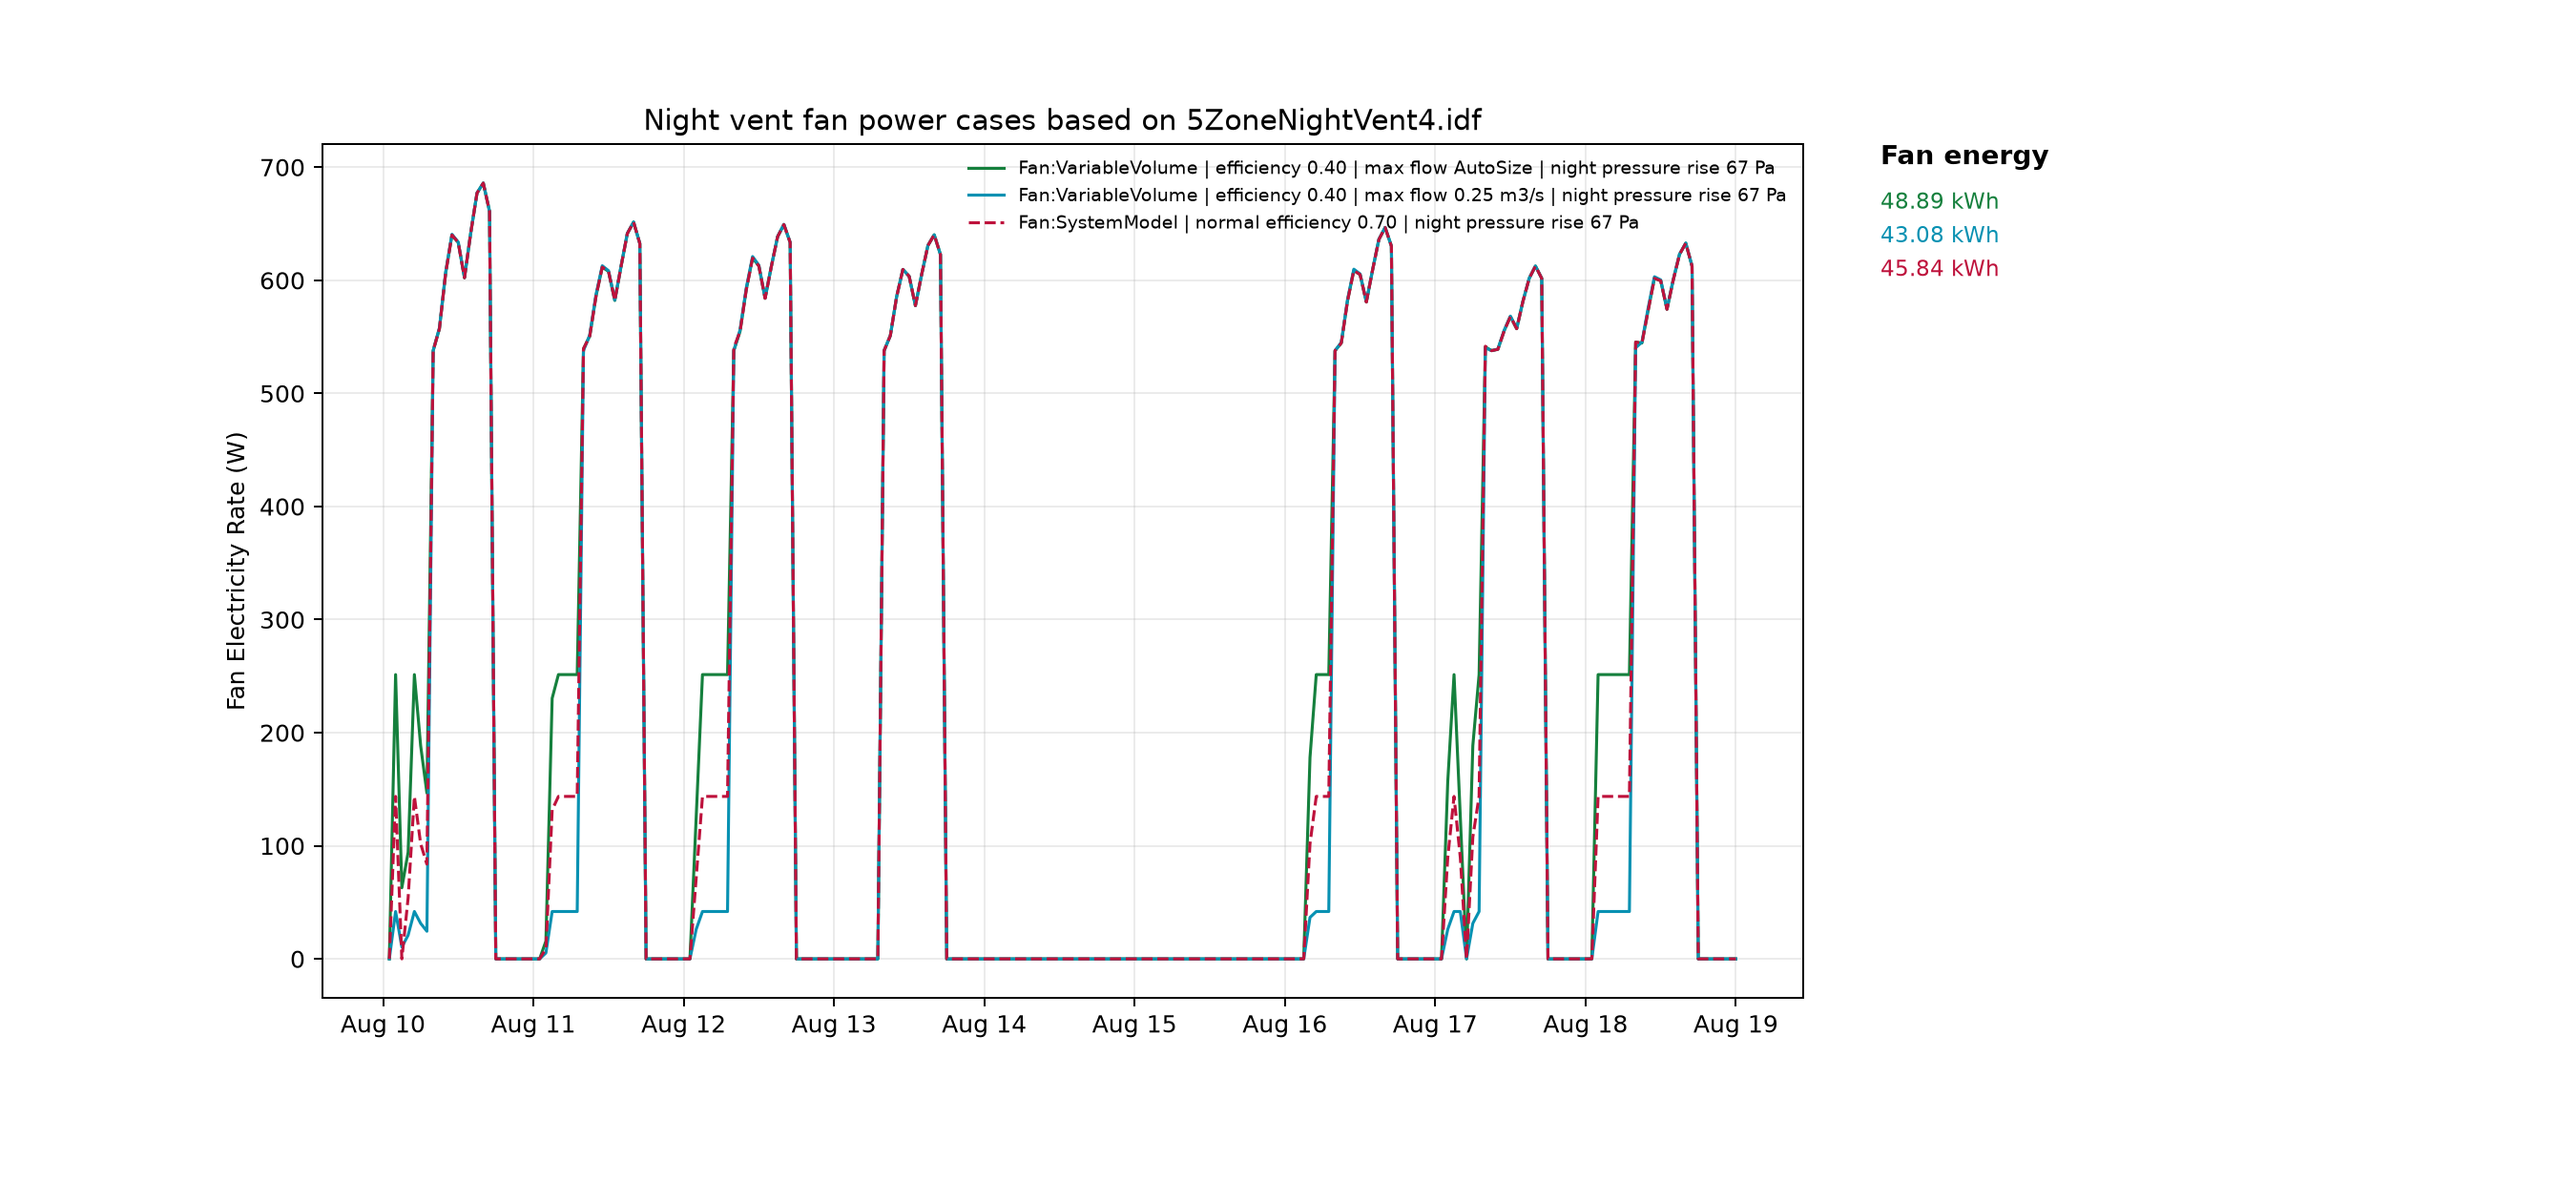
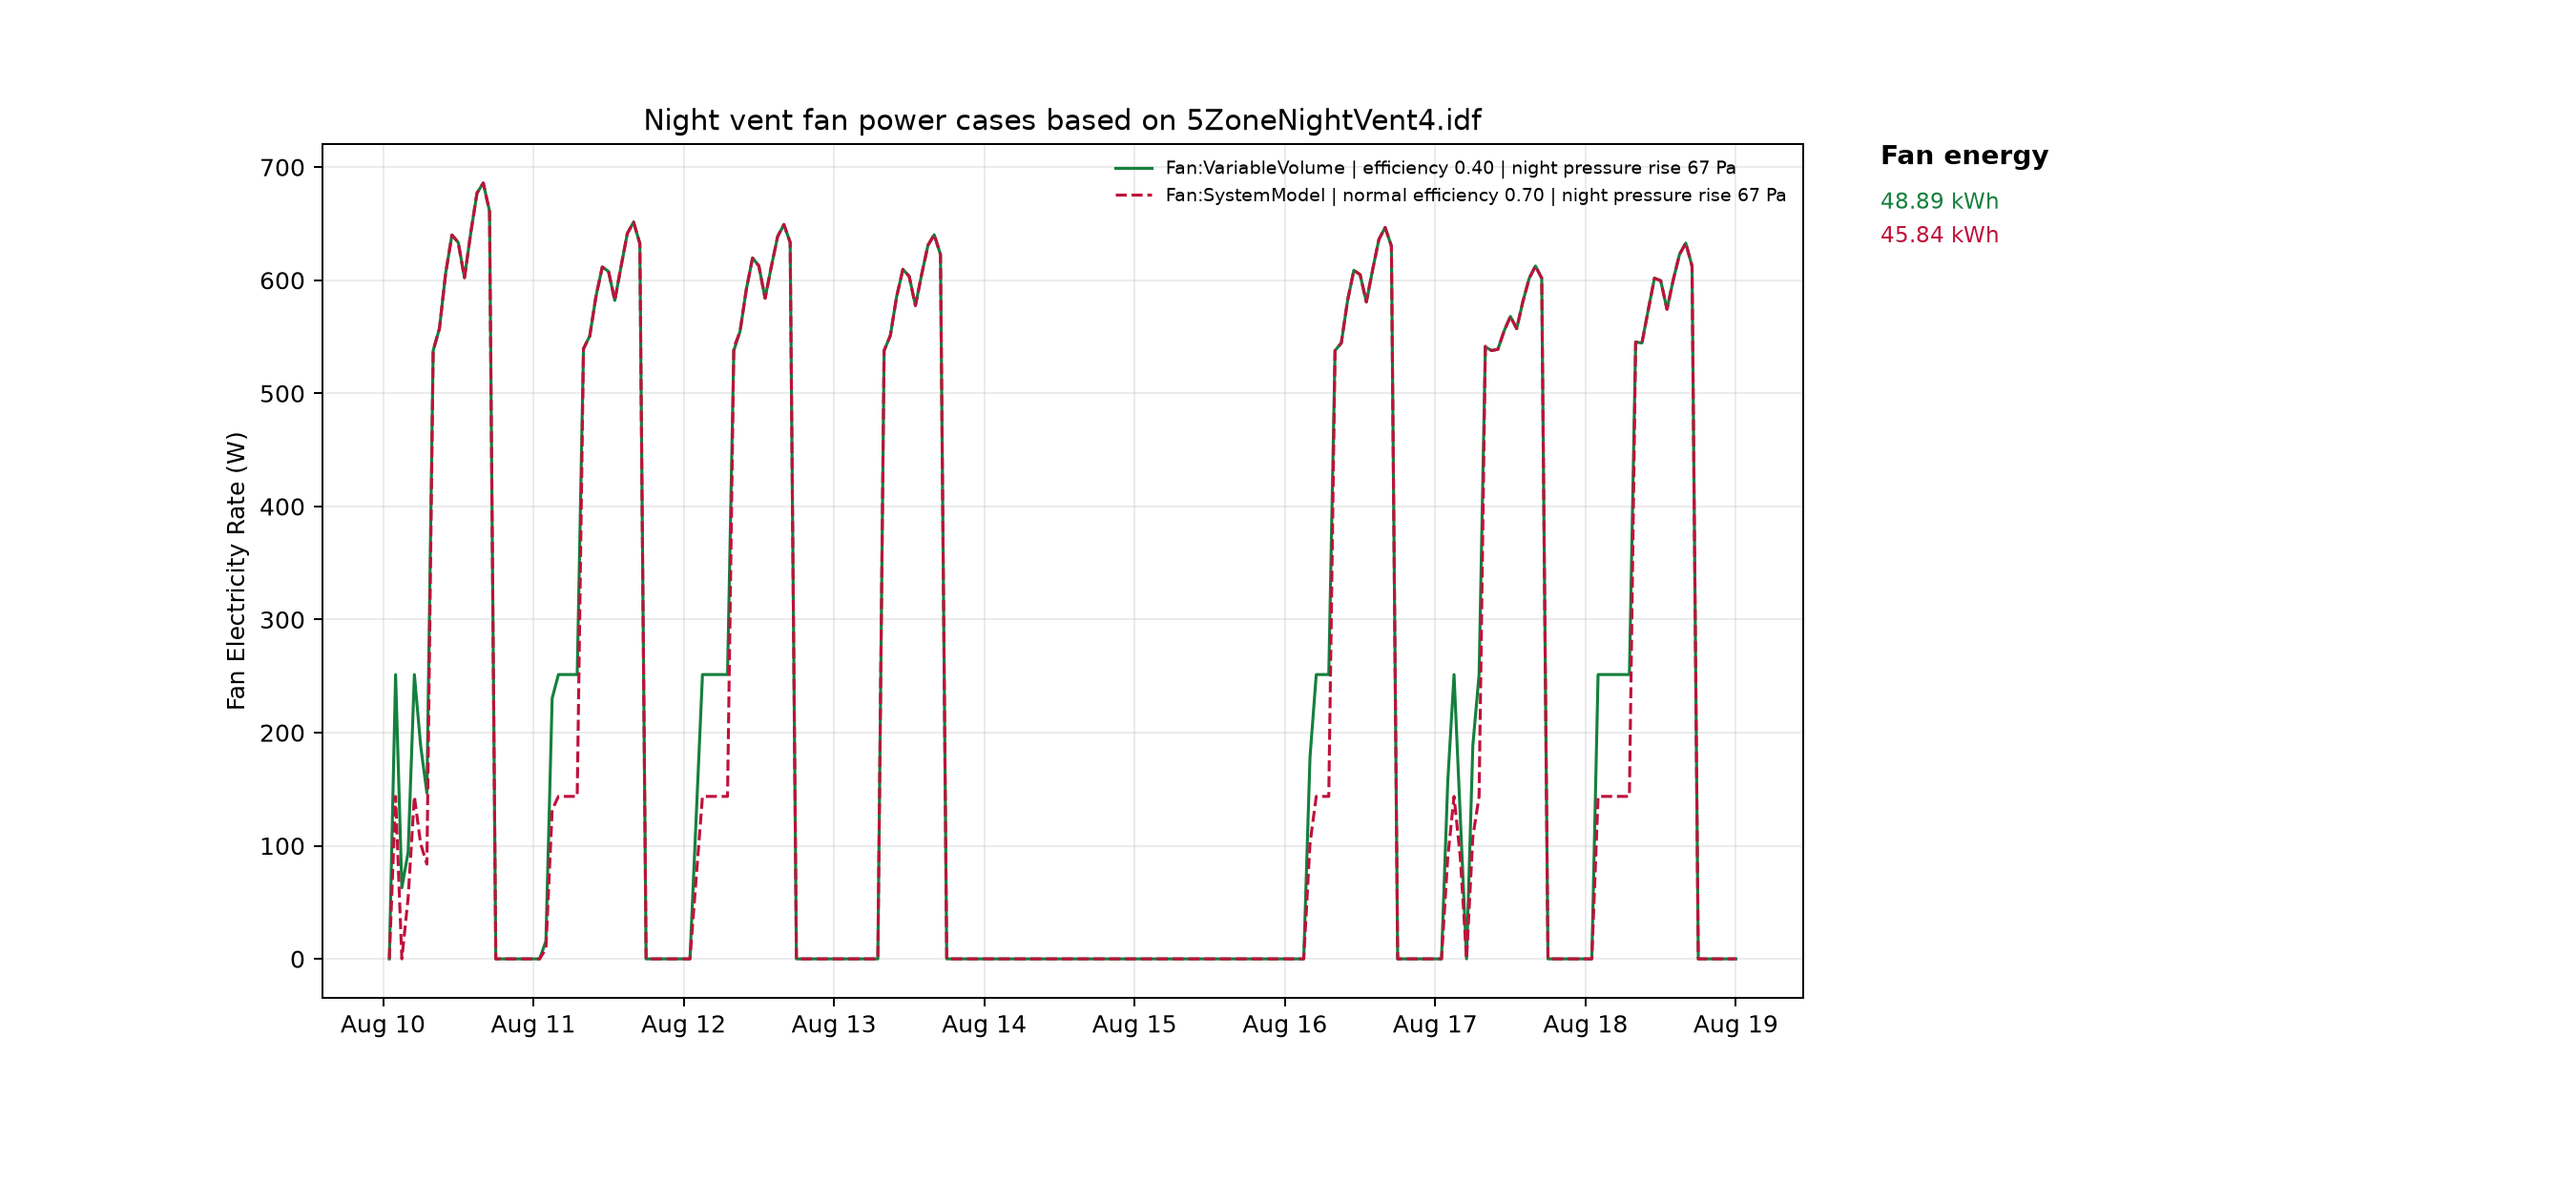
Remove night max-flow field from proposal
The legacy Maximum Flow Rate capped night flow only for Fan:VariableVolume, while other fan types ignored it. Reducing fan flow without a corresponding reduction in connected inlet flow could create a mass-flow mismatch. AvailabilityManager:NightVentilation remains responsible for the primary-loop flow request.

Changed region(s): [[0.3733, 0.1238, 0.6844, 0.2167], [0.7156, 0.1857, 0.7778, 0.2476], [0.56, 0.7429, 0.5911, 0.7738]]

diff --git a/design/FY2026/NFP-FanSystemModel_NightVentilation.md b/design/FY2026/NFP-FanSystemModel_NightVentilation.md
@@ -7,22 +7,21 @@ Fan:SystemModel Night Ventilation Mode Fields
 
 ## Justification for New Feature ##
 
-`FanPerformance:NightVentilation` lets a modeler specify an alternate fan efficiency, pressure rise, motor efficiency, motor-in-airstream fraction, and maximum flow rate that apply only while `AvailabilityManager:NightVentilation` has forced the fan into night ventilation mode.
+`FanPerformance:NightVentilation` lets a modeler specify alternate fan efficiency, pressure rise, motor efficiency, and motor-in-airstream fraction that apply only while `AvailabilityManager:NightVentilation` has forced the fan into night ventilation mode.
 It is documented as applying to `Fan:ConstantVolume`, `Fan:VariableVolume`, `Fan:ZoneExhaust`, and `Fan:OnOff`.
 
-`Fan:SystemModel` was intended to replace the legacy fan objects and their separate night-ventilation performance object. Today it supports a night pressure-rise override, but its `Night Ventilation Mode Flow Fraction` input is unused; requested flow is controlled by `AvailabilityManager:NightVentilation`. It cannot specify alternate night efficiency or motor performance, or independently cap night flow, so it is less capable in this mode than `Fan:VariableVolume` with `FanPerformance:NightVentilation`.
+`Fan:SystemModel` was intended to replace the legacy fan objects and their separate night-ventilation performance object. Today it supports a night pressure-rise override, but its `Night Ventilation Mode Flow Fraction` input is unused; requested flow is controlled by `AvailabilityManager:NightVentilation`. It cannot specify alternate night efficiency or motor performance, so it is less capable in this mode than `Fan:VariableVolume` with `FanPerformance:NightVentilation`.
 
 The FY2016 NFP, "A New Versatile Fan," explicitly says the new fan should make `FanPerformance:NightVentilation` unnecessary, but its proposed interface listed only pressure rise and flow fraction. This points to an incomplete replacement scope rather than an intentional change to night-ventilation behavior.
 
 The comparison below illustrates this capability gap.
 
-![Fan power comparison for Fan:VariableVolume with alternate night total efficiency and flow limits, versus Fan:SystemModel with a night pressure-rise override only.](NFP-FanSystemModel-NightVentilation-Comparisons.png)
+![Fan power comparison for Fan:VariableVolume with alternate night total efficiency, versus Fan:SystemModel with a night pressure-rise override only.](NFP-FanSystemModel-NightVentilation-Comparisons.png)
 
 This work (tracked under issue #11798, and related to the broader inconsistency reported in issue #11808 across fan types) reworks the `Fan:SystemModel` night ventilation inputs so that:
 
 1. The dead `Night Ventilation Mode Flow Fraction` field is removed.
 2. `Fan:SystemModel` gains the same alternate total efficiency, motor efficiency, and motor-in-airstream-fraction inputs that `FanPerformance:NightVentilation` already offers to the legacy fan types.
-3. `Fan:SystemModel` gains an optional, autosizable maximum air flow rate cap for night ventilation mode, mirroring `FanPerformance:NightVentilation`'s `Maximum Flow Rate` field, so that a fan's night-vent flow can be limited independently of (and in addition to) whatever flow fraction `AvailabilityManager:NightVentilation` requests.
 
 ## Overview ##
 
@@ -32,20 +31,18 @@ That pattern is extended to cover the remaining alternate-performance parameters
 - `Night Ventilation Mode Fan Total Efficiency` (optional; falls back to `Fan Total Efficiency` if blank)
 - `Night Ventilation Mode Motor Efficiency` (optional; falls back to `Motor Efficiency` if blank)
 - `Night Ventilation Mode Motor In Air Stream Fraction` (optional; falls back to `Motor In Air Stream Fraction` if blank)
-- `Night Ventilation Mode Maximum Air Flow Rate` (optional and autosizable; falls back to `Design Maximum Air Flow Rate` - i.e., no additional cap - if left blank or autosized)
 
-None of these fields affect the flow rate the fan is asked to move; that continues to be set entirely by `AvailabilityManager:NightVentilation`'s `Night Venting Flow Fraction`.
-The `Night Ventilation Mode Maximum Air Flow Rate` field only clips that requested flow to no more than the specified value, exactly as `FanPerformance:NightVentilation`'s `Maximum Flow Rate` field is documented to do for the legacy fan types.
+These alternate performance fields do not affect the flow rate the fan is asked to move; that continues to be set entirely by `AvailabilityManager:NightVentilation`'s `Night Venting Flow Fraction`.
 
 The previously unused `Night Ventilation Mode Flow Fraction` field is removed since it duplicated `AvailabilityManager:NightVentilation`'s own flow fraction field and was never consumed.
 
-![Legacy night-ventilation performance fields carried into Fan:SystemModel, with new fields highlighted and flow-request control retained by AvailabilityManager:NightVentilation.](NFP-FanSystemModel-NightVentilation-FieldChanges.png)
+![Night-ventilation efficiency and motor fields added to Fan:SystemModel, with flow-request control retained by AvailabilityManager:NightVentilation.](NFP-FanSystemModel-NightVentilation-FieldChanges.png)
 
 ## Approach ##
 
 ### IDD ###
 
-In `Fan:SystemModel`, `Night Ventilation Mode Flow Fraction` is removed and replaced with four fields: `Night Ventilation Mode Fan Total Efficiency`, `Night Ventilation Mode Maximum Air Flow Rate`, `Night Ventilation Mode Motor Efficiency`, and `Night Ventilation Mode Motor In Air Stream Fraction`. The field order mirrors `FanPerformance:NightVentilation`: fan total efficiency, pressure rise, maximum flow rate, motor efficiency, and motor in airstream fraction. Accordingly, the new fan total efficiency field is inserted immediately before the existing `Night Ventilation Mode Pressure Rise` field; the other three new fields follow pressure rise. All subsequent fields (`Motor Loss Zone Name`, `Motor Loss Radiative Fraction`, `Number of Speeds`, and the `Speed n` extensible field sets) shift by a net three numeric field positions versus the pre-existing schema:
+In `Fan:SystemModel`, `Night Ventilation Mode Flow Fraction` is removed and replaced with three fields: `Night Ventilation Mode Fan Total Efficiency`, `Night Ventilation Mode Motor Efficiency`, and `Night Ventilation Mode Motor In Air Stream Fraction`. The new fan total efficiency field is inserted immediately before the existing `Night Ventilation Mode Pressure Rise` field; the other two new fields follow pressure rise. All subsequent fields (`Motor Loss Zone Name`, `Motor Loss Radiative Fraction`, `Number of Speeds`, and the `Speed n` extensible field sets) shift by a net two numeric field positions versus the pre-existing schema:
 
 ```
   N10, \field Night Ventilation Mode Fan Total Efficiency
@@ -59,23 +56,13 @@ In `Fan:SystemModel`, `Night Ventilation Mode Flow Fraction` is removed and repl
        \type real
        \units Pa
        \ip-units inH2O
-  N12, \field Night Ventilation Mode Maximum Air Flow Rate
-       \type real
-       \units m3/s
-       \minimum 0.0
-       \autosizable
-       \default autosize
-       \note Maximum standard-density volumetric air flow rate when the fan operates in night ventilation mode.
-       \note If left blank or autosized, this field is set to the fan's Design Maximum Air Flow Rate.
-       \note AvailabilityManager:NightVentilation Night Venting Flow Fraction requests a fraction of the fan's Design Maximum Air Flow Rate.
-       \note This field is then used as an upper limit on the resulting night ventilation fan flow rate.
-  N13, \field Night Ventilation Mode Motor Efficiency
+  N12, \field Night Ventilation Mode Motor Efficiency
        \note Fan motor efficiency to use when in night mode using AvailabilityManager:NightVentilation
        \note If left blank the Motor Efficiency field above is used.
        \type real
        \minimum> 0.0
        \maximum 1.0
-  N14, \field Night Ventilation Mode Motor In Air Stream Fraction
+  N13, \field Night Ventilation Mode Motor In Air Stream Fraction
        \note Fraction of motor heat entering the air stream to use when in night mode using AvailabilityManager:NightVentilation
        \note If left blank the Motor In Air Stream Fraction field above is used.
        \note 0.0 means fan motor outside of air stream, 1.0 means motor inside of air stream
@@ -84,30 +71,19 @@ In `Fan:SystemModel`, `Night Ventilation Mode Flow Fraction` is removed and repl
        \maximum 1.0
 ```
 
-`Fan:SystemModel`'s existing `\min-fields` remains 14; the added fields follow that position, so minimal-field objects remain valid.
+`Fan:SystemModel`'s `\min-fields` becomes 16 to include the two net additional numeric fields before `Number of Speeds`.
 
 ### Fans.cc / Fans.hh ###
 
 `FanSystem` (the `Fan:SystemModel` implementation class) gains:
 ```cpp
-Real64 nightVentMaxAirFlowRate = 0.0;
-Real64 nightVentMaxAirMassFlowRate = 0.0;        // [kg/s]
 Real64 nightVentTotalEff = 0.0;                  // 0.0 means not specified
 Real64 nightVentMotorEff = 0.0;                  // 0.0 means not specified
 Real64 nightVentMotorInAirFrac = 0.0;
 bool nightVentMotorInAirFracSpecified = false;
 ```
 
-`GetFanInput` parses the four new/changed numeric fields. The IDD's `\default autosize` causes a blank maximum flow rate to be read as `DataSizing::AutoSize`; an explicit `0.0` remains a zero-flow cap.
-
-`FanSystem::set_size` resolves the night-vent maximum flow rate once the fan's normal `maxAirFlowRate` has been sized:
-```cpp
-if (nightVentMaxAirFlowRate == DataSizing::AutoSize) {
-    nightVentMaxAirFlowRate = maxAirFlowRate;
-}
-nightVentMaxAirMassFlowRate = nightVentMaxAirFlowRate * rhoAirStdInit;
-```
-Both "left blank" and "autosize" resolve to the design maximum air flow rate, i.e., no additional cap beyond the fan's normal maximum.
+`GetFanInput` parses the three new/changed numeric fields.
 
 `FanSystem::calcSimpleSystemFan` computes local, per-timestep values that use the night-vent alternates only when `state.dataHVACGlobal->NightVentOn` is true, following the same pattern already used for `nightVentPressureDelta`:
 ```cpp
@@ -115,9 +91,7 @@ Real64 _localFanTotalEff = (state.dataHVACGlobal->NightVentOn && nightVentTotalE
 Real64 _localMotorEff = (state.dataHVACGlobal->NightVentOn && nightVentMotorEff > 0.0) ? nightVentMotorEff : motorEff;
 Real64 _localMotorInAirFrac =
     (state.dataHVACGlobal->NightVentOn && nightVentMotorInAirFracSpecified) ? nightVentMotorInAirFrac : motorInAirFrac;
-Real64 _localMaxAirMassFlowRate = state.dataHVACGlobal->NightVentOn ? nightVentMaxAirMassFlowRate : maxAirMassFlowRate;
 ```
-`_localMaxAirMassFlowRate` then replaces `maxAirMassFlowRate` everywhere within this function that the requested mass flow is clipped to the fan's maximum (the EMS-override clip, the flow-fraction calculation, and the flow-ratio calculation), so the night ventilation cap is enforced consistently regardless of speed control method (`Discrete` or `Continuous`) or how many operating modes are active.
 
 ### ExpandObjects ###
 
@@ -125,11 +99,11 @@ HVACTemplate-driven expansion to `Fan:SystemModel` emits the new fields blank, i
 
 ### Transition ###
 
-The `V26.2 -> V27.1` `FAN:SYSTEMMODEL` rule inserts a blank `Night Ventilation Mode Fan Total Efficiency` before the existing `Night Ventilation Mode Pressure Rise`, preserving the old pressure-rise value in its new position. It removes the old `Night Ventilation Mode Flow Fraction` value and inserts blank fields for `Night Ventilation Mode Maximum Air Flow Rate`, `Night Ventilation Mode Motor Efficiency`, and `Night Ventilation Mode Motor In Air Stream Fraction`. Trailing fields (`Motor Loss Zone Name` onward) shift by a net three numeric field positions. Records that do not reach the old pressure-rise field are passed through unchanged; records that include pressure rise but omit the old flow-fraction field still need the pressure-rise position shifted.
+The `V26.2 -> V27.1` `FAN:SYSTEMMODEL` rule inserts a blank `Night Ventilation Mode Fan Total Efficiency` before the existing `Night Ventilation Mode Pressure Rise`, preserving the old pressure-rise value in its new position. It removes the old `Night Ventilation Mode Flow Fraction` value and inserts blank fields for `Night Ventilation Mode Motor Efficiency` and `Night Ventilation Mode Motor In Air Stream Fraction`. Trailing fields (`Motor Loss Zone Name` onward) shift by a net two numeric field positions. Records that do not reach the old pressure-rise field are passed through unchanged; records that include pressure rise but omit the old flow-fraction field still need the pressure-rise position shifted.
 
 ## Testing/Validation/Data Sources ##
 
-- New/updated unit tests exercise `GetFanInput` field parsing (including the autosize path) and `calcSimpleSystemFan`'s night-vent flow cap, alternate efficiency, and motor-fraction behavior for both `Discrete` and `Continuous` speed control.
+- New/updated unit tests exercise `GetFanInput` field parsing and `calcSimpleSystemFan`'s alternate efficiency and motor-fraction behavior for both `Discrete` and `Continuous` speed control.
 - Transition pytest coverage (`src/Transition/tests/26_2_0/test_fan_systemmodel.py`) covers records ending before, at, and after the removed field, including one with `Number of Speeds`/speed field sets present.
 - All `testfiles/*.idf` and embedded `tst/EnergyPlus/unit/*.unit.cc` `Fan:SystemModel` objects were mechanically updated to insert the new blank field(s) so existing regression tests continue to parse and run unchanged (all new fields left blank preserves prior behavior).
 - `testfiles/5ZoneNightVent3.idf` additionally exercises the alternate total efficiency/motor efficiency/motor-in-airstream-fraction fields (populated to match its companion `5ZoneNightVent4.idf`'s `FanPerformance:NightVentilation` values) to keep the two demonstration files equivalent.
@@ -146,5 +120,5 @@ No new output variables. Existing predefined tabular report entries (e.g., Fan T
 
 - Issue #11798 (Fan:SystemModel night ventilation field rework)
 - Issue #11808 (Inconsistent/inaccurate FanPerformance:NightVentilation handling across fan types)
-- `FanPerformance:NightVentilation` object (existing legacy fan alternate-performance object this work mirrors)
+- `FanPerformance:NightVentilation` object (existing legacy fan alternate-performance object this work partially mirrors)
 - [design/FY2016/New Fan Design Document.md](https://github.com/NatLabRockies/EnergyPlus/blob/develop/design/FY2016/New%20Fan%20Design%20Document.md) - "A New Versatile Fan" (B. Griffith, 2015), the original NFP that introduced `Fan:SystemModel` and first stated the intent that it make `FanPerformance:NightVentilation` unnecessary
